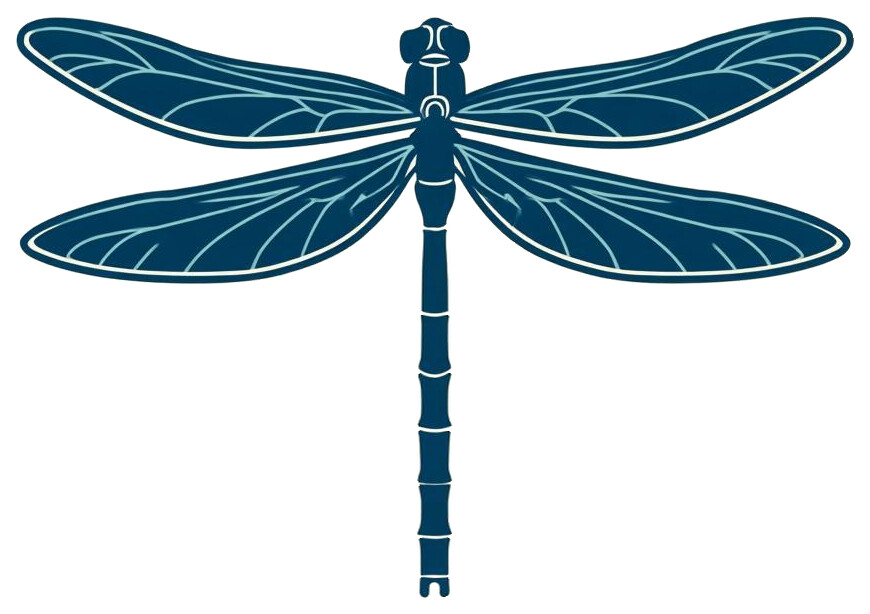
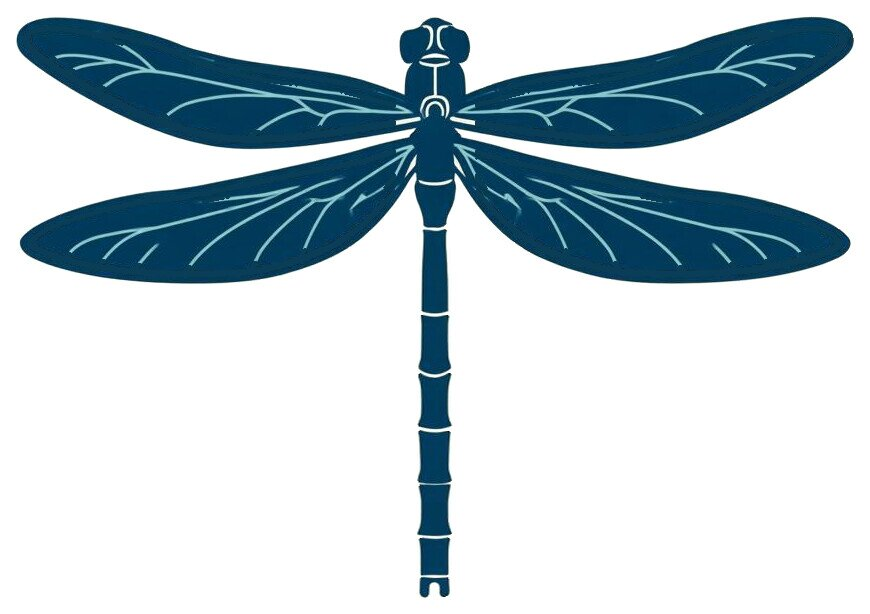
Sprig: Dragonfly picture sample without the white ring; Gary's settings (Gary)
The white line just inside each wing's outline was cut in like a vein under
Inflate + Gray, leaving the dark outline standing as a lip round every wing.
No setting separates it from the veins, so the picture was fixed instead: the
light pixels near the four wings' edges painted the wing blue (body and tail
untouched). Gary loaded it, tuned it and asked for his settings: Gap Fill 80
(was 60), Edge Softness 1 (was 0.8), Remove Tiny off (was on).

sprig STL verify (block H) passes, tsc clean. Not pushed.

diff --git a/src/config/sprig-samples.ts b/src/config/sprig-samples.ts
@@ -112,7 +112,7 @@ const BIRD = `<svg xmlns="http://www.w3.org/2000/svg" viewBox="0 0 120 76">
 export const SPRIG_SAMPLES: SprigSample[] = [
   { id: 'dragonfly-picture', name: 'Dragonfly picture', description: 'A drawing — wings with veins, a segmented tail', svg: '', aspect: 870 / 614,
     picture: '/sprig-samples/dragonfly-picture.jpg',
-    settings: { heightMode: 'inflateGray', imageBackground: 20, imageCloseGaps: 1, gapFill: 60, imageSmooth: 1, imageTones: 3, imageLightest: 40, detailDepth: 0.6, roundness: 3, edgeSoftness: 0.8, removeTiny: true } },
+    settings: { heightMode: 'inflateGray', imageBackground: 20, imageCloseGaps: 1, gapFill: 80, imageSmooth: 1, imageTones: 3, imageLightest: 40, detailDepth: 0.6, roundness: 3, edgeSoftness: 1, removeTiny: false } },
   { id: 'flower', name: 'Flower', description: 'Line art — Fill Holes fills the petals', svg: FLOWER, aspect: 0.8333,
     settings: { heightMode: 'inflate', fillHeight: 60, roundness: 2, edgeSoftness: 0.6 } },
   { id: 'shell', name: 'Seashell', description: 'Three greys — Gray makes darker stand higher', svg: SHELL, aspect: 1.2824,
